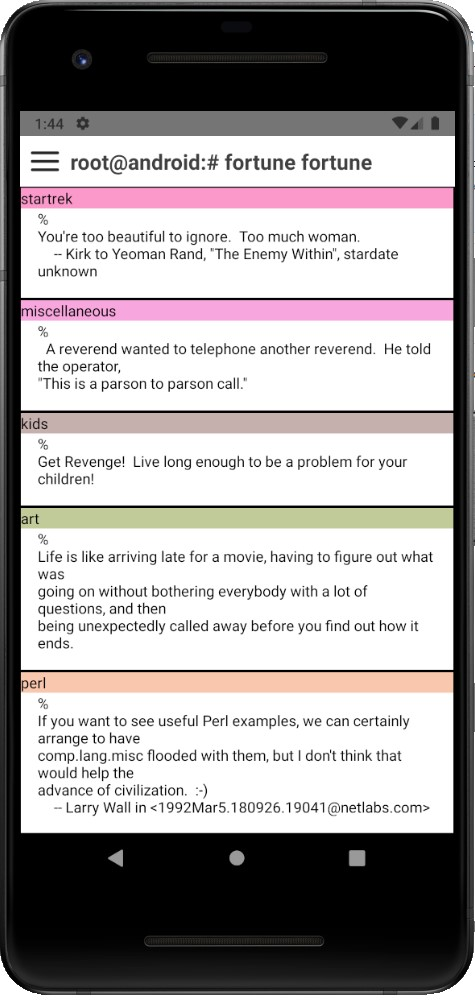
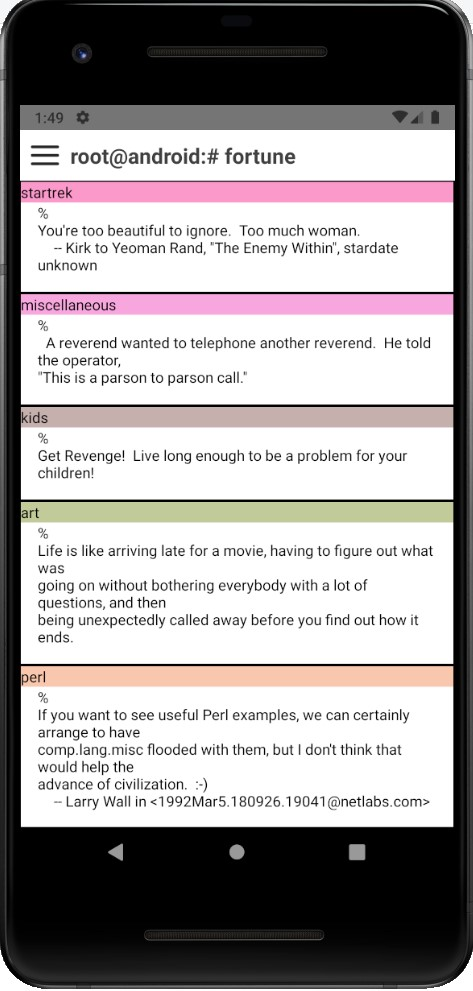
pic fix

Changed region(s): [[0.0, 0.0, 1.0, 0.999]]

diff --git a/FortuneList/Prompt.js b/FortuneList/Prompt.js
@@ -17,7 +17,7 @@ const Prompt = ({drawer}) => {
           />
         </Center>
         <Center>
-          <Heading size="md">root@android:# fortune fortune</Heading>
+          <Heading size="md">root@android:# fortune</Heading>
         </Center>
       </HStack>
     </View>
